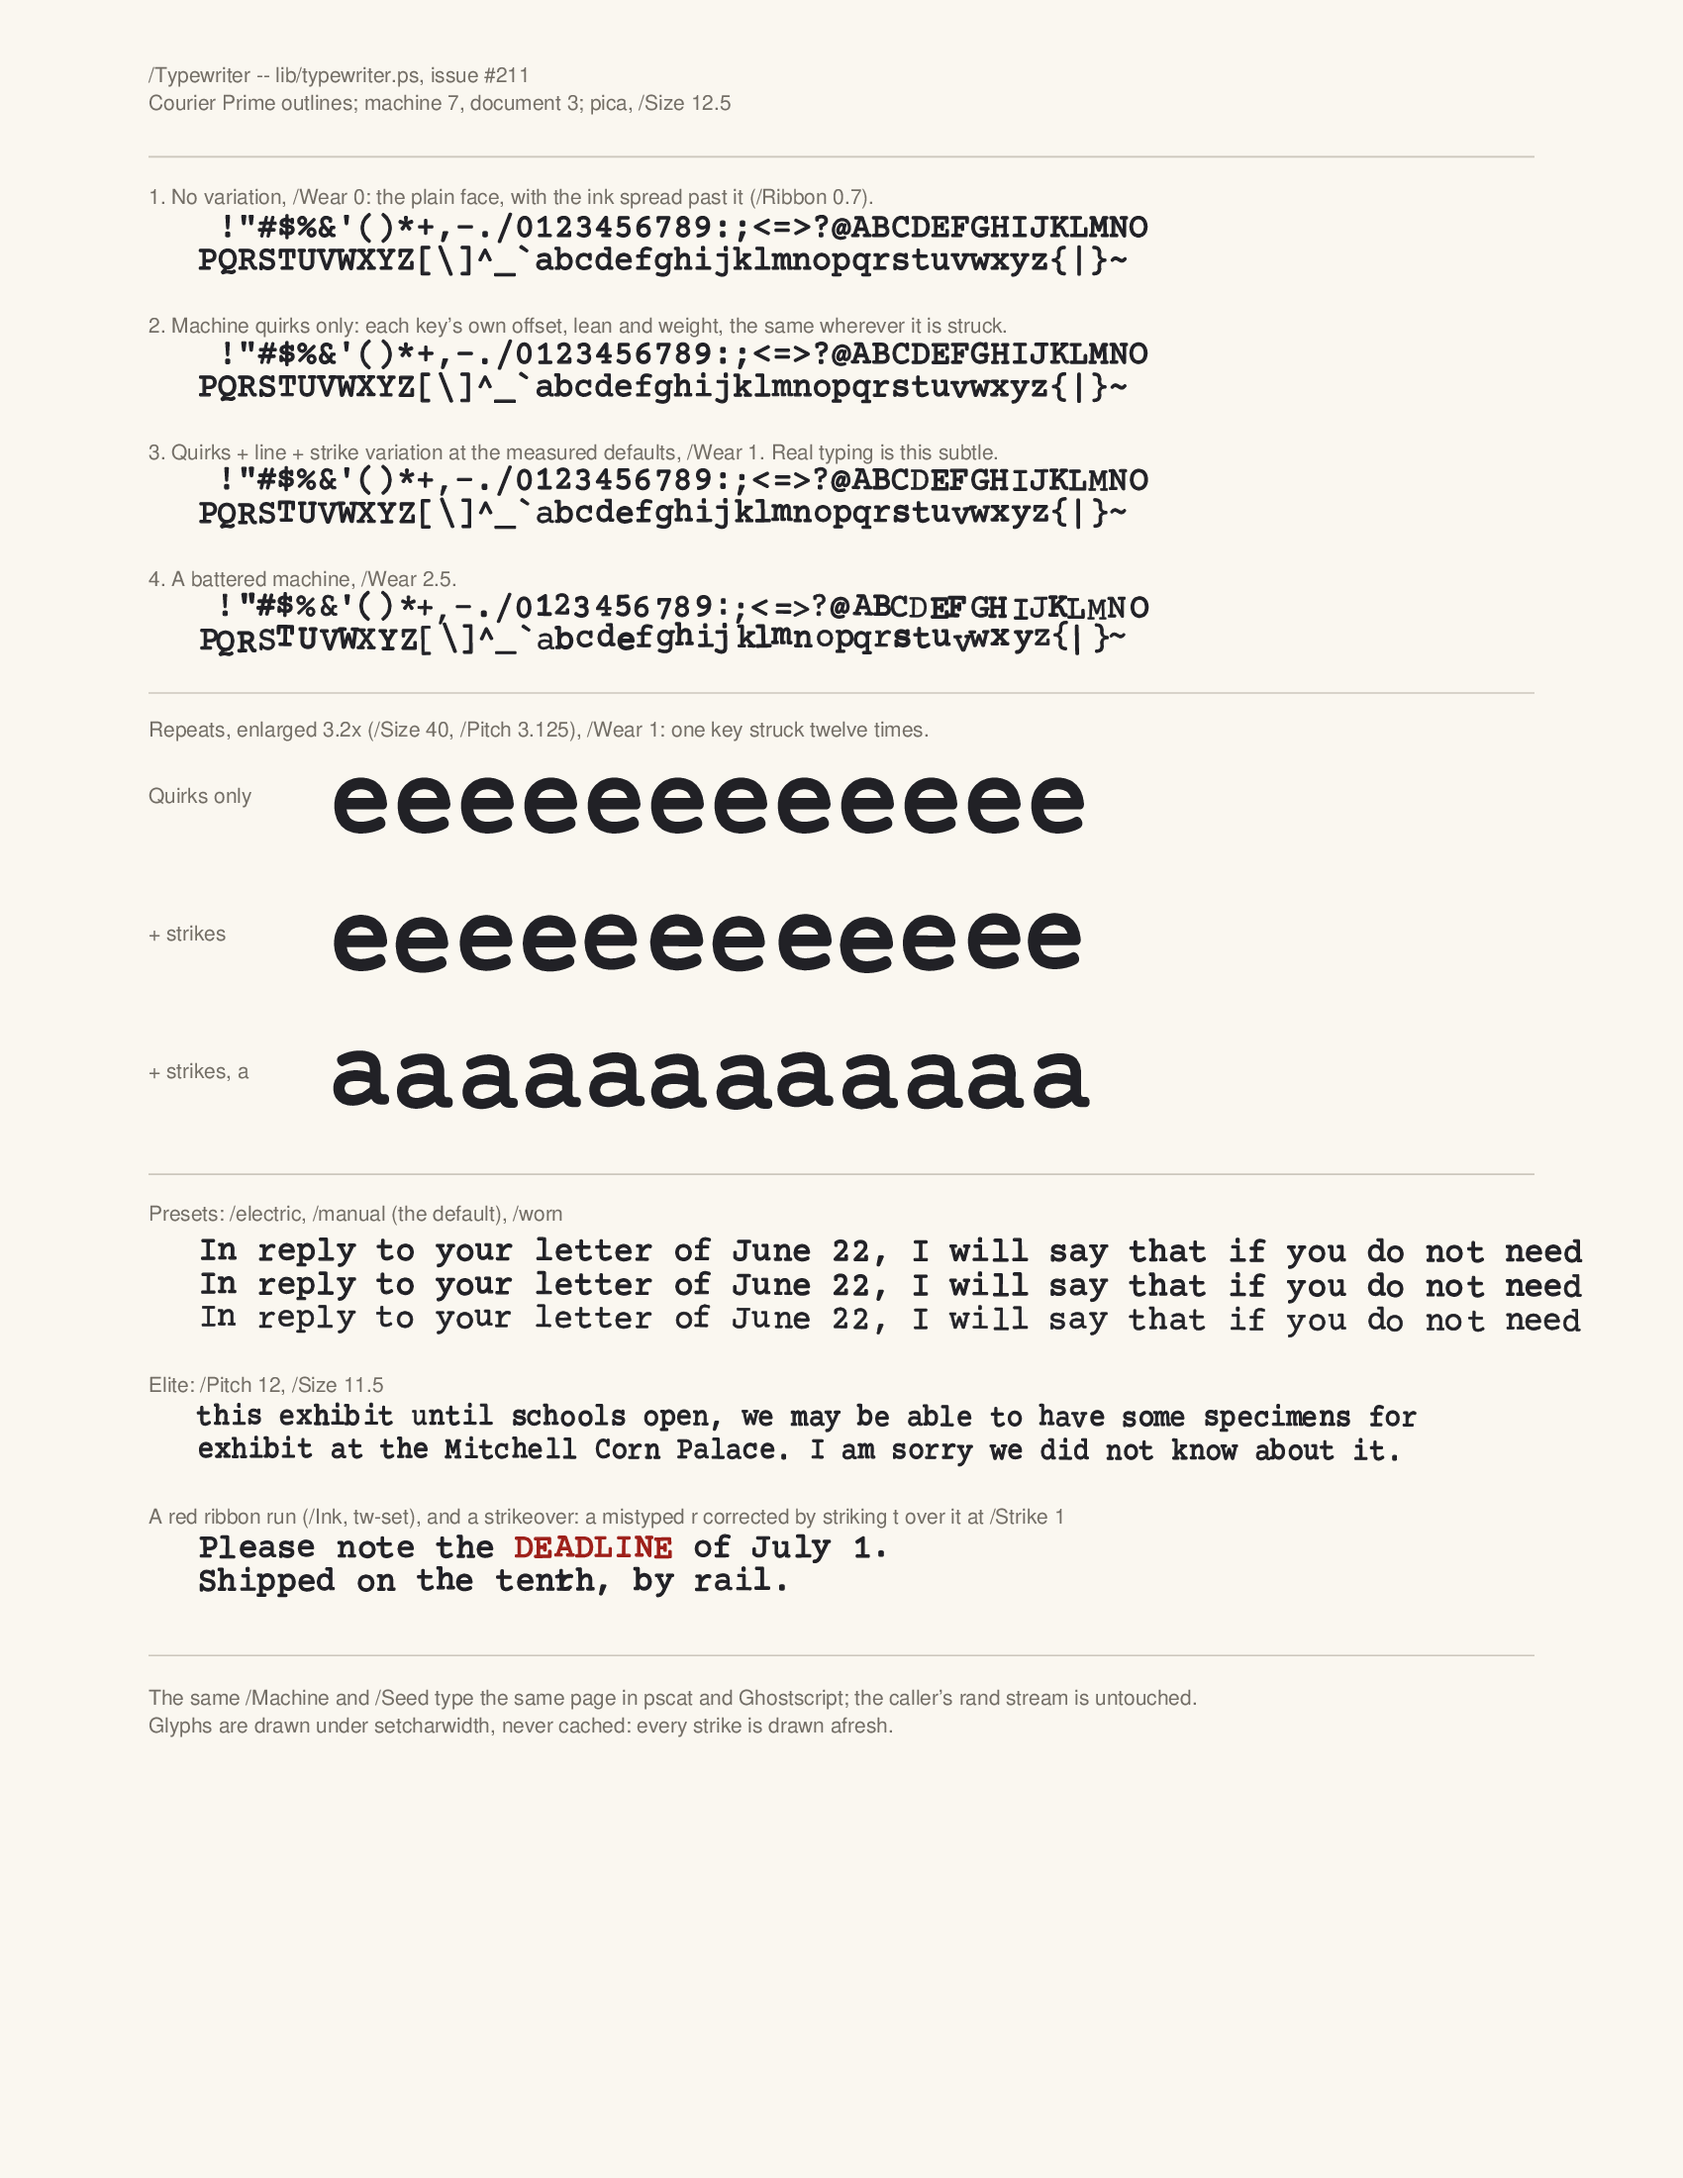
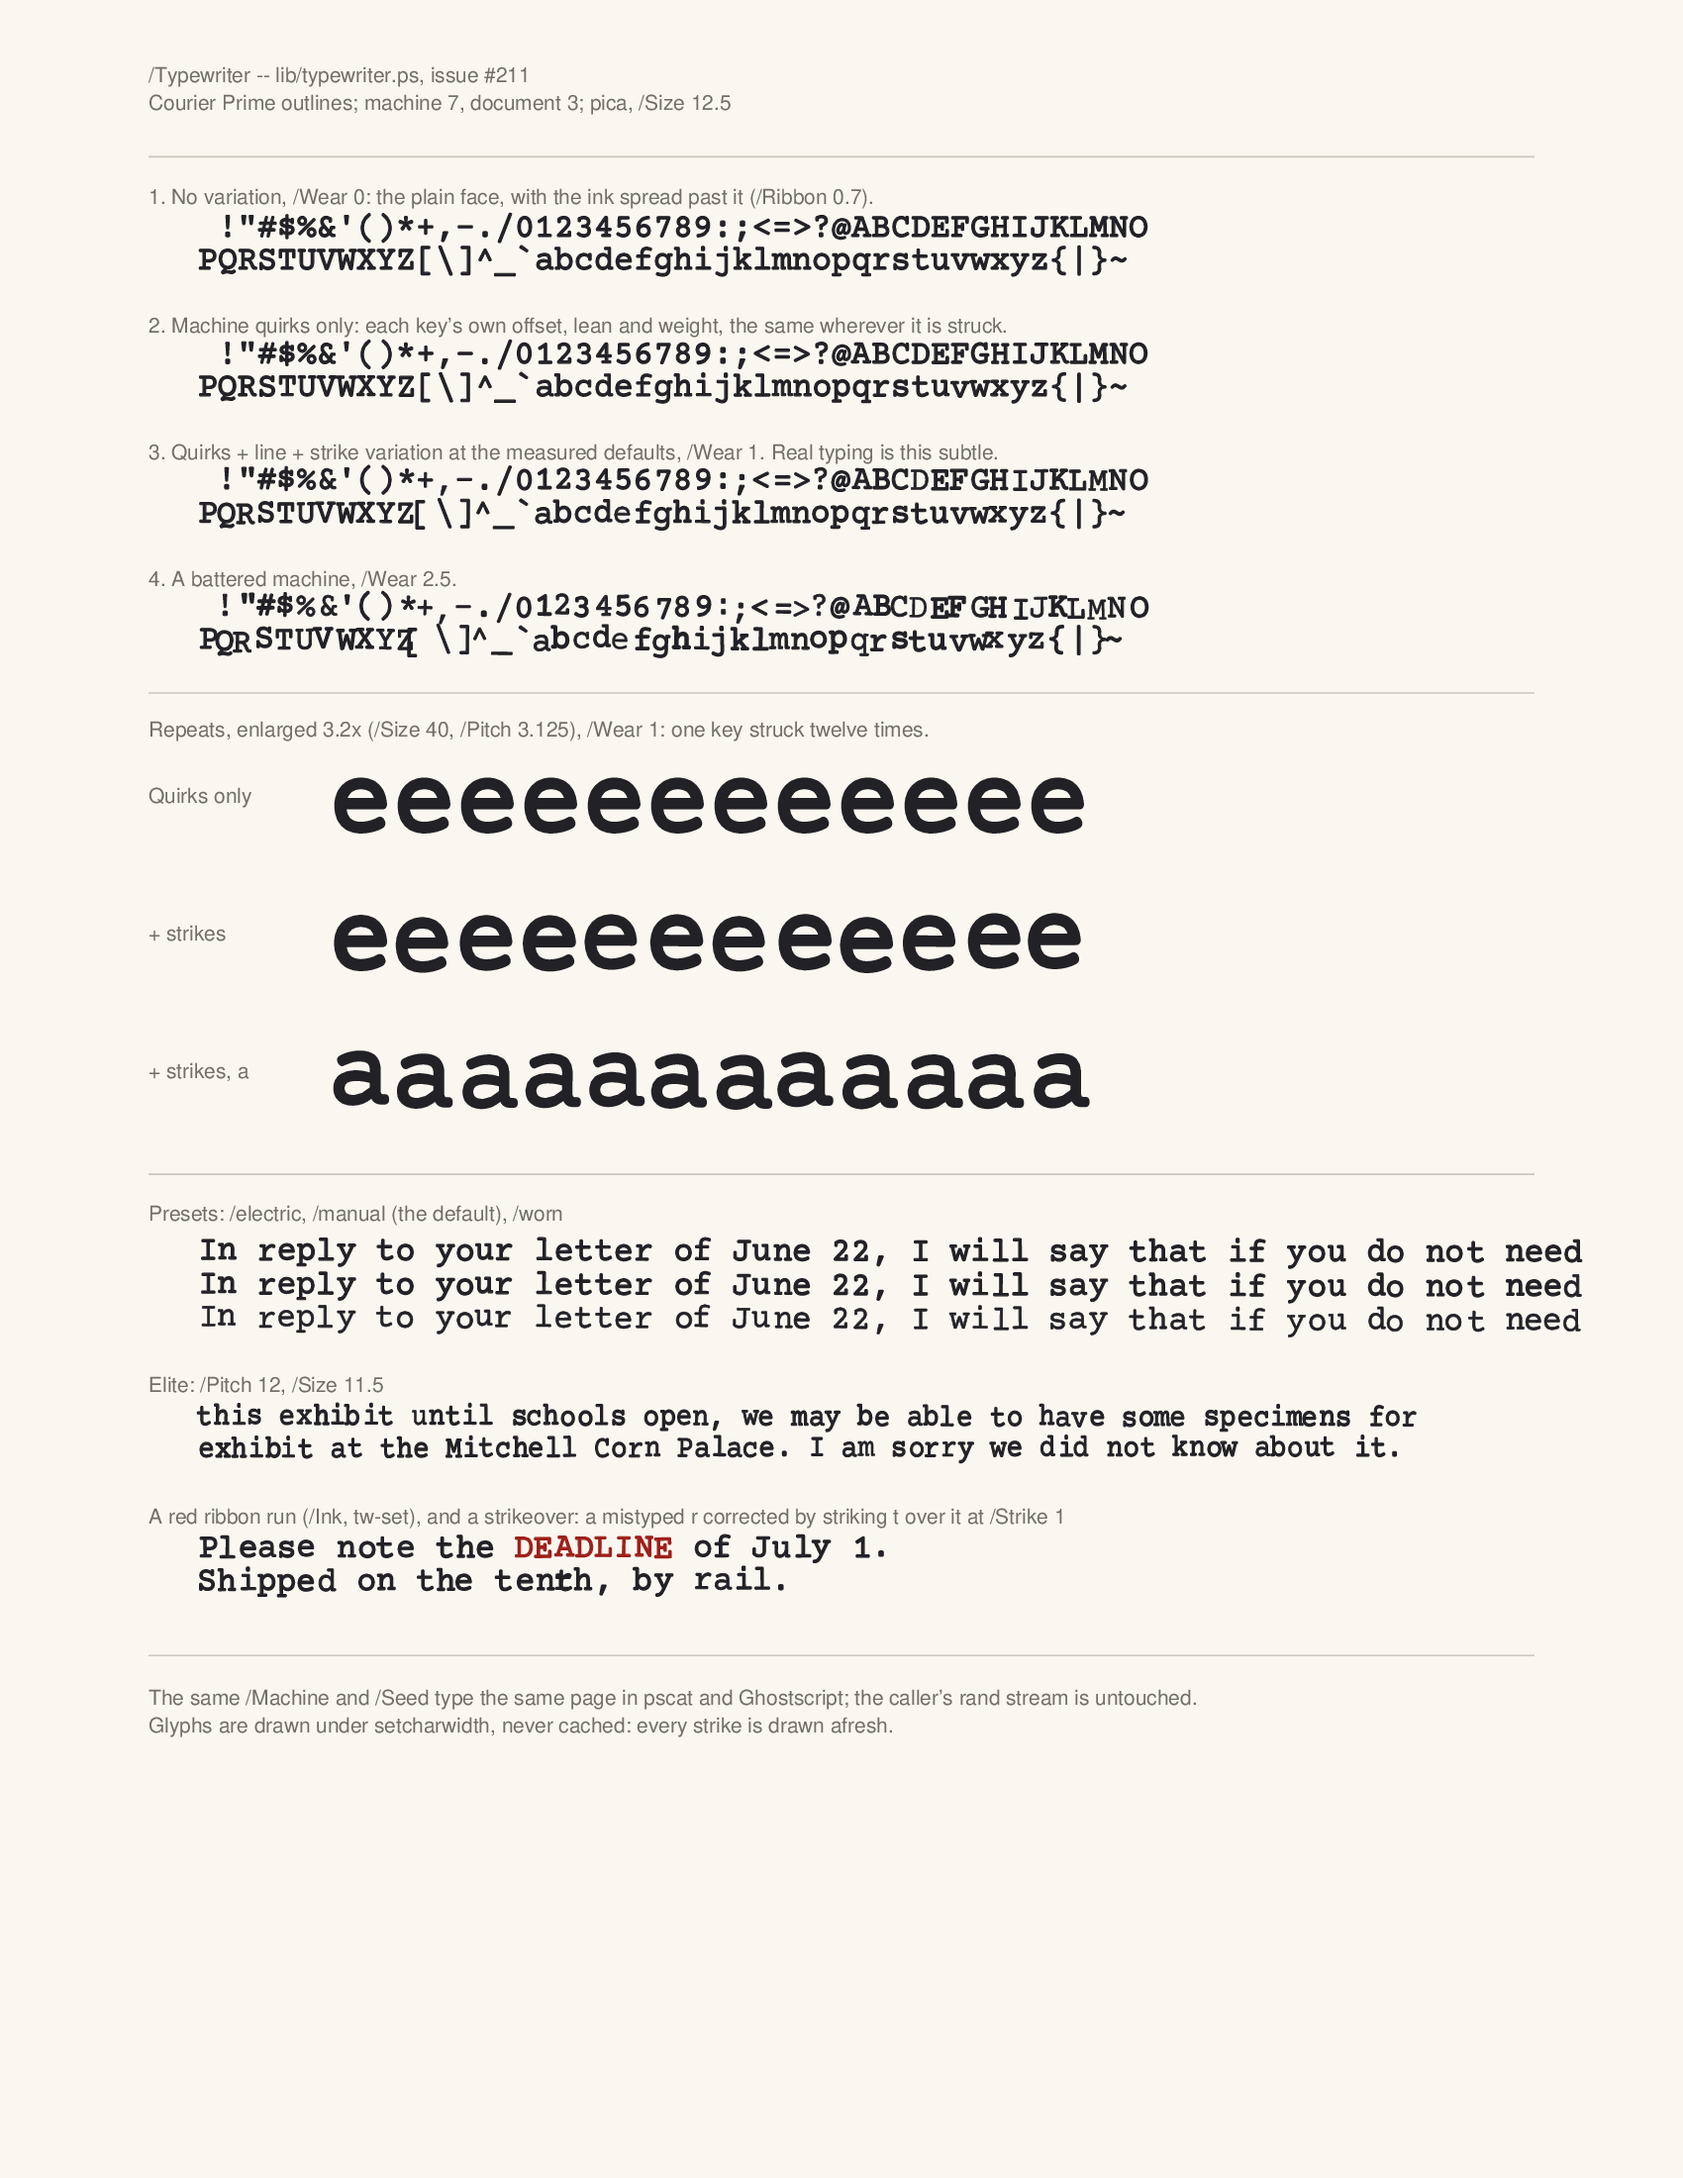
typewriter: count lines in fixed 6pt half-line steps of the frame, not an em-scaled pitch (#211)
Codex review round 3: plain 12 scalefont use left /Size at 12.5, so 12pt
baselines fell on an 11.52pt grid and hit .5 rounding boundaries. The
tw-line-keys self-test pins the new grid. Line keys changed, so the
specimens are re-rendered.

diff --git a/notes/211-typewriter-font.md b/notes/211-typewriter-font.md
@@ -100,10 +100,21 @@ sections 2–5 and 7 of it, with flat ink. Section 6 (ribbon ink) is #212.
 - **The frame.** It is the CTM at `tw-setup`, moved to the current point if
   there is one. Baselines a whole number of lines below that point land on
   integer cell rows, never on a .5 rounding boundary.
-- **Cell sizes come from the glyph's actual advance and em** (in the frame),
-  not from `/Pitch`. Plain `12 scalefont` use (advance 6.9pt) still gets a
-  distinct cell per glyph, rather than two glyphs rounding into one cell
-  every 25 columns and sharing their draws.
+- **Cells.** A column is the glyph's own advance as drawn, measured in the
+  frame. A line is a fixed half-line step of 6pt in the frame, as a
+  platen ratchets, whatever the type size.
+  - The column comes from the advance, not from `/Pitch`. So plain
+    `12 scalefont` use (a 6.9pt advance) still gives each glyph its own
+    cell, instead of two glyphs rounding into one cell every 25 columns and
+    sharing their draws.
+  - The line is not scaled by the em. A first draft scaled it by the
+    em / `/Size`, but plain use leaves `/Size` at 12.5. Then 12pt baselines
+    under `12 scalefont` fell on an 11.52pt grid, and line 12 landed
+    exactly on a .5 rounding boundary, where pscat and gs could round
+    differently (Codex round 3).
+  - Half-line steps put single, 1.5 and double spacing on whole steps, and
+    give any two baselines at least 6pt apart their own key. The
+    `tw-line-keys` self-test pins this; with the em-scaled grid it fails.
 - **A 16-bit hash state.** The prototype's 8-bit Pearson chain collapsed
   every prefix to 256 states, so one strike in 256 got another cell's
   draws. Two Pearson chains, with different starts and byte offsets, give
